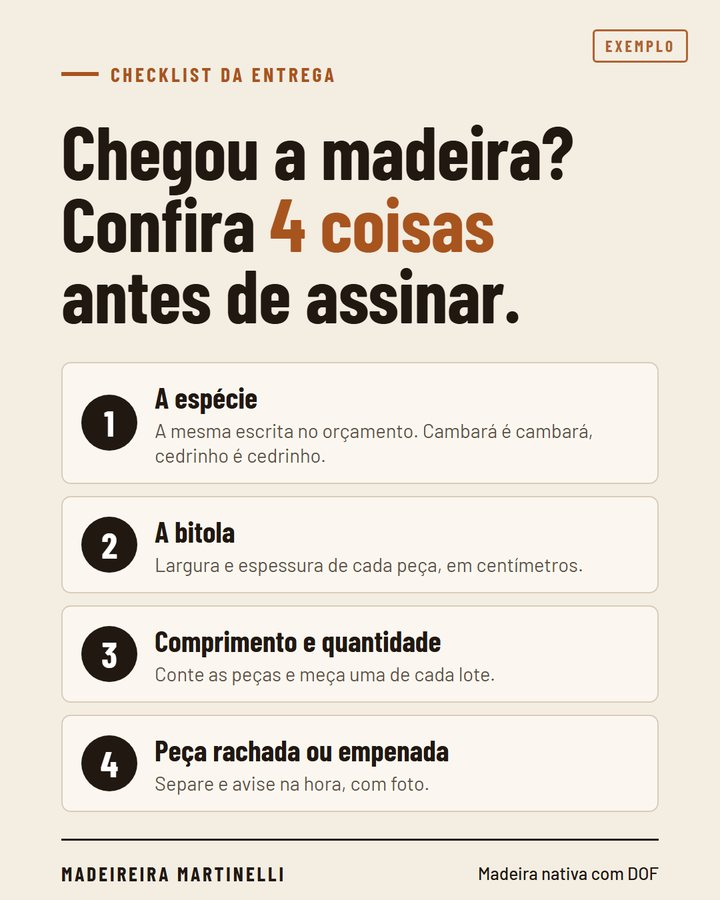
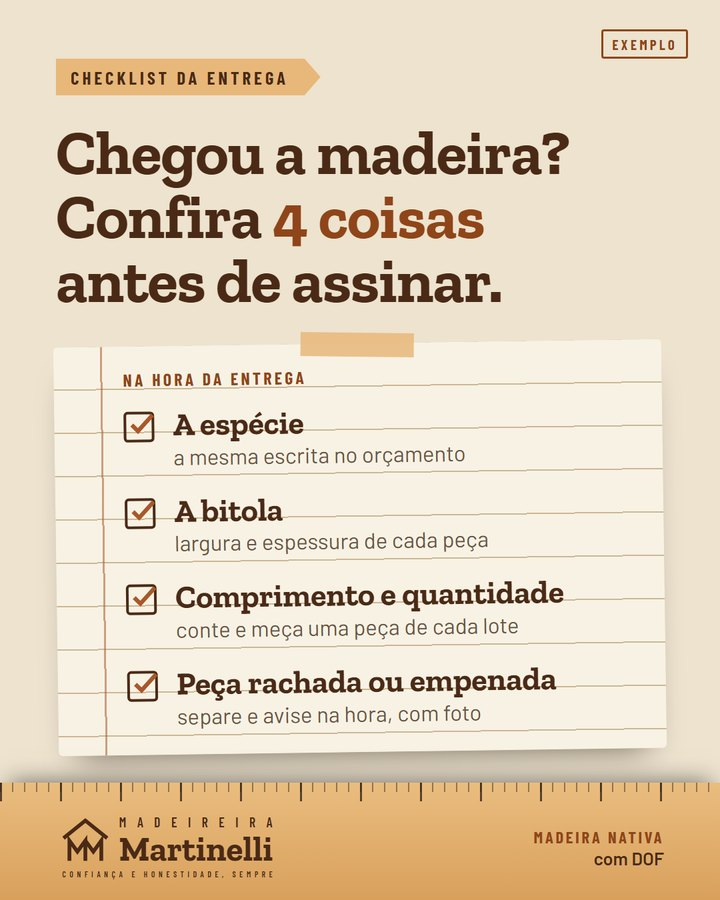
Página /martinelli/social: os 6 posts de exemplo refeitos no padrão do site
Zilla Slab, textura de madeira, régua com o logo, carimbo do DOF, foto do perfil da empresa e a conversa do orçamento; legendas 4 e 5 novas; imagens com ?v=2. S80.

diff --git a/martinelli/social/index.html b/martinelli/social/index.html
@@ -420,7 +420,7 @@ section{padding:84px 0;scroll-margin-top:60px}
     <h2>Arraste para comparar.</h2>
     <div class="comparar" id="comparar">
       <img src="img/antes_6.jpg" width="908" height="754" alt="As seis publicações mais recentes do Instagram da madeireira" loading="lazy">
-      <img class="depois" id="depois" src="img/depois_6.jpg" width="908" height="754" alt="Seis posts de exemplo da proposta" loading="lazy">
+      <img class="depois" id="depois" src="img/depois_6.jpg?v=2" width="908" height="754" alt="Seis posts de exemplo da proposta" loading="lazy">
       <div class="barra" id="barra"></div>
       <input type="range" min="0" max="100" value="50" aria-label="Comparar antes e depois">
     </div>
@@ -519,11 +519,11 @@ section{padding:84px 0;scroll-margin-top:60px}
     {f:"Checklist", t:"Chegou a madeira? Confira 4 coisas antes de assinar.", leg:"Chegou a madeira? Antes de assinar o recebimento, confira 4 coisas:\n1. A espécie: a mesma escrita no orçamento.\n2. A bitola: largura e espessura de cada peça.\n3. O comprimento e a quantidade.\n4. Peça rachada ou empenada: separe e avise na hora, com foto.", porque:"Responde à queixa que aparece nas avaliações do Google: espécie e peça diferentes do combinado."},
     {f:"A lei em uma frase", t:"Madeira nativa só pode ser transportada e guardada para venda com DOF.", leg:"O DOF, Documento de Origem Florestal, é a licença do Ibama que acompanha a madeira nativa até o fim do beneficiamento (Código Florestal, Lei 12.651/2012, art. 36).\nNa Martinelli, a madeira nativa tem DOF. Pergunte a origem de qualquer madeira que você comprar.", porque:"Diz “com DOF”, nunca “certificada”, como três concorrentes fazem. Confirmar o cadastro no Ibama e o DOF em dia antes de publicar."},
     {f:"Infográfico", t:"Quem segura o seu telhado.", leg:"A telha apoia na ripa, a ripa é pregada no caibro e o caibro descansa na terça. Cada peça tem bitola e espécie certas para o vão.\nVai reformar o telhado? Mande as medidas pelo WhatsApp.", porque:"Telhado é o carro-chefe da madeireira e, nos 12 posts mais recentes, só aparece numa foto, sem legenda sobre ele."},
-    {f:"Obra entregue", t:"Pergolado 4 × 3 m, em cambará, instalado.", leg:"Pergolado de 4 × 3 m e 2,60 m de altura livre, em cambará, com instalação.\nToda a madeira nativa com DOF.", porque:"No post real entra a foto da obra feita pela madeireira, com espécie e medidas de verdade. Aqui, desenho com medidas ilustrativas."},
-    {f:"Orçamento", t:"Mande estas 4 coisas e receba o orçamento mais rápido.", leg:"Para o orçamento sair rápido, mande pelo WhatsApp:\n1. As medidas do vão ou do telhado.\n2. Uma foto do local.\n3. A madeira que você quer, ou peça indicação.\n4. O endereço da entrega.\nWhatsApp (12) 97405-2842.", porque:"Os clientes elogiam a compra pelo WhatsApp. O post ensina a pedir e leva direto à conversa."},
+    {f:"Obra entregue", t:"Pergolado de madeira, com instalação.", leg:"Pergolado de madeira, com instalação.\nPergolados e decks sob medida, em madeira nativa com DOF.\nPeça o orçamento pelo WhatsApp: (12) 97405-2842.", porque:"Foto do próprio perfil da madeireira no Google. No post real entra foto nova da obra, com espécie e medidas, e autorização de quem aparece."},
+    {f:"Orçamento", t:"Do seu projeto ao orçamento, numa conversa.", leg:"Conte pelo WhatsApp o que você vai construir e as medidas do projeto. O vendedor indica a madeira com o melhor custo-benefício para a sua obra.\nWhatsApp (12) 97405-2842.", porque:"A mesma conversa do site: os clientes elogiam a compra pelo WhatsApp, e o post leva direto para ela. Conversa ilustrativa."},
     {f:"Quem comprou", t:"“Fiz cotação com 4 madeireiras e eles tiveram o melhor preço.”", leg:"O que um cliente escreveu no Google depois de comprar com a gente.\nObrigado pela confiança.", porque:"Avaliação real do Google. Só publicar com autorização do cliente; nota e número de avaliações mudam, atualizar antes."}
   ];
-  var SRCS = ["img/depois/post1.jpg","img/depois/post2.jpg","img/depois/post3.jpg","img/depois/post4.jpg","img/depois/post5.jpg","img/depois/post6.jpg"];
+  var SRCS = ["img/depois/post1.jpg?v=2","img/depois/post2.jpg?v=2","img/depois/post3.jpg?v=2","img/depois/post4.jpg?v=2","img/depois/post5.jpg?v=2","img/depois/post6.jpg?v=2"];
   var i = 0, n = POSTS.length;
   var trilho = document.getElementById("trilho"), pontos = document.getElementById("pontos"), leg = document.getElementById("legenda"),
       visor = document.getElementById("visor"), ant = visor.querySelector(".ant"), prox = visor.querySelector(".prox"), conta = document.getElementById("conta");
